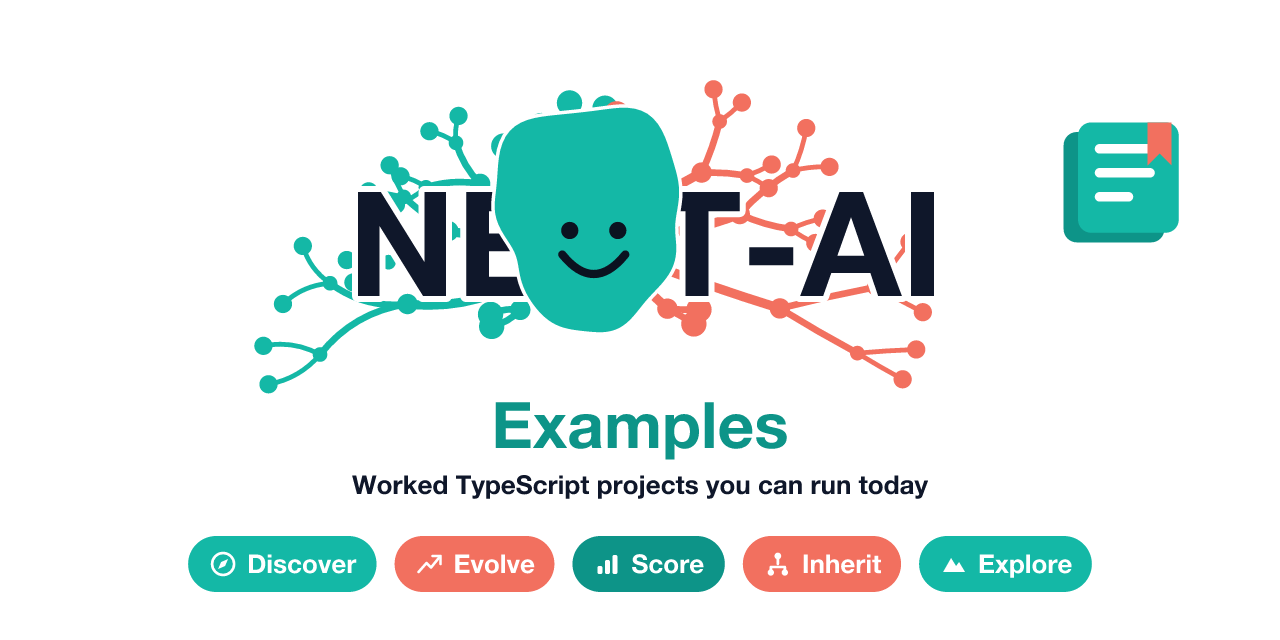
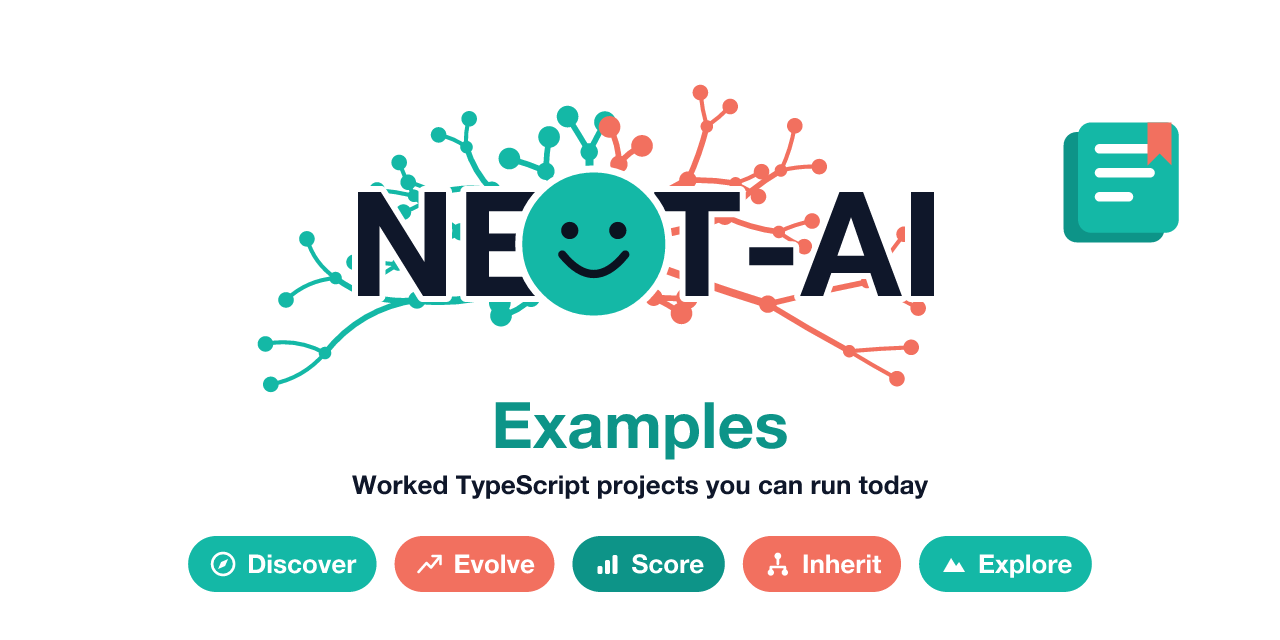
fix: keep a round smiley soma; neuron look is the dendrites.
The lumpy cell body read as a mutant, not a neuron. Restore the friendly
round face and grow dendrite trunks out of it.

diff --git a/scripts/brand/preview_art.ts b/scripts/brand/preview_art.ts
@@ -1,12 +1,12 @@
 /**
  * Issue #3764 / #3781 — the NEAT-AI family social previews, drawn as SVG.
  *
- * The family look lives here once: the organic smiley-neuron soma standing in
- * for the "A" of NEAT-AI (irregular cell body, tapering dendrite trunks, face),
- * the teal/coral dendrite tree behind it, the sub-project subtitle, and the
- * shared capability pills. Every sibling preview is the same lockup with its
- * own subtitle, descriptor, and motif, so the ten images stay recognisably one
- * family instead of ten hand-tweaked drawings.
+ * The family look lives here once: a friendly round smiley-neuron standing in
+ * for the "A" of NEAT-AI, dendrite trunks growing out of that cell body, the
+ * teal/coral dendrite tree, the sub-project subtitle, and the shared capability
+ * pills. Every sibling preview is the same lockup with its own subtitle,
+ * descriptor, and motif, so the ten images stay recognisably one family instead
+ * of ten hand-tweaked drawings.
  *
  * Two palettes render the same artwork:
  *
@@ -199,30 +199,6 @@ const PRIMARIES: Primary[] = [
 ];
 
 /**
- * Issue #3781 — lobes on the cell body where dendrite trunks leave the soma.
- * Encoded as polar bumps so the silhouette is one organic shape, not a disc
- * with separate finger-like appendages.
- *
- * Angles are SVG degrees (0 = right, 90 = down). `length` is extra radius as a
- * fraction of the soma radius; `spread` is the angular width in radians.
- */
-interface SomaLobe {
-  angle: number;
-  length: number;
-  spread: number;
-}
-
-const SOMA_LOBES: SomaLobe[] = [
-  { angle: -98, length: 0.58, spread: 0.30 },
-  { angle: -66, length: 0.74, spread: 0.26 },
-  { angle: -128, length: 0.70, spread: 0.26 },
-  { angle: -36, length: 0.40, spread: 0.24 },
-  { angle: -162, length: 0.38, spread: 0.24 },
-  { angle: 78, length: 0.20, spread: 0.28 },
-  { angle: 112, length: 0.22, spread: 0.28 },
-];
-
-/**
  * Cap how steeply a branch may point downward. Below the wordmark sits the
  * subtitle, so the tree fans sideways there instead of diving into the text.
  */
@@ -353,15 +329,15 @@ function dendrites(
   for (const primary of PRIMARIES) {
     const angle = primary.angle + (random() - 0.5) * 12;
     const radians = (angle * Math.PI) / 180;
-    // Issue #3781: start near the soma surface so branches leave the cell
-    // body rather than radiating from behind a plain circle.
-    const startR = radius * 1.02;
+    // Issue #3781: start under the round soma so the first segment reads as a
+    // dendrite trunk leaving the cell, not a tree floating behind it.
+    const startR = radius * 0.55;
     grow(
       cx + Math.cos(radians) * startR,
       cy + Math.sin(radians) * startR,
       angle,
       primary.length * (0.9 + random() * 0.2),
-      16,
+      13,
       primary.depth,
       (random() - 0.5) * 0.5,
       primary.coral ? palette.coral : palette.teal,
@@ -410,78 +386,17 @@ function dendrites(
 }
 
 /**
- * Polar radius of the lumpy cell body (Issue #3781). Harmonics keep the
- * silhouette organic without a random roll, so every preview matches.
- */
-function somaRadiusAt(theta: number, r: number): number {
-  let rr = r * (
-    1 +
-    0.06 * Math.sin(3 * theta + 0.55) +
-    0.035 * Math.sin(5 * theta + 1.35) +
-    0.025 * Math.cos(2 * theta - 0.65)
-  );
-  for (const lobe of SOMA_LOBES) {
-    const lobeTheta = (lobe.angle * Math.PI) / 180;
-    let delta = theta - lobeTheta;
-    while (delta > Math.PI) delta -= Math.PI * 2;
-    while (delta < -Math.PI) delta += Math.PI * 2;
-    const bump = Math.exp(
-      -(delta * delta) / (2 * lobe.spread * lobe.spread),
-    );
-    rr += r * lobe.length * bump;
-  }
-  return rr;
-}
-
-/** Closed quadratic curve through `points`, smooth at the wrap-around. */
-function closedCurvePath(
-  points: Array<{ x: number; y: number }>,
-): string {
-  const mid = (
-    a: { x: number; y: number },
-    b: { x: number; y: number },
-  ) => ({ x: (a.x + b.x) / 2, y: (a.y + b.y) / 2 });
-  const start = mid(points[points.length - 1], points[0]);
-  let d = `M${n(start.x)} ${n(start.y)}`;
-  for (let i = 0; i < points.length; i++) {
-    const curr = points[i];
-    const next = points[(i + 1) % points.length];
-    const m = mid(curr, next);
-    d += `Q${n(curr.x)} ${n(curr.y)} ${n(m.x)} ${n(m.y)}`;
-  }
-  return `${d}Z`;
-}
-
-/** Irregular cell-body outline — a perturbed circle, not a disc. */
-function organicBlobPath(cx: number, cy: number, r: number): string {
-  const steps = 64;
-  const points: Array<{ x: number; y: number }> = [];
-  for (let i = 0; i < steps; i++) {
-    const theta = (i / steps) * Math.PI * 2;
-    const rr = somaRadiusAt(theta, r);
-    points.push({
-      x: cx + Math.cos(theta) * rr,
-      y: cy + Math.sin(theta) * rr,
-    });
-  }
-  return closedCurvePath(points);
-}
-
-/**
- * The organic smiley soma that stands in for the "A" of NEAT-AI (Issue #3781).
+ * The smiley soma that stands in for the "A" of NEAT-AI (Issue #3781).
  *
- * Close match to the pre-#3764 artwork: irregular teal cell body with dendrite
- * trunks growing out of it, plus a smiley face. Not a plain filled circle.
+ * A round, friendly cell body — the neuron look comes from dendrite trunks
+ * leaving this disc, not from an irregular lumpy silhouette.
  */
 function soma(cx: number, cy: number, r: number, palette: Palette): string {
-  const blob = organicBlobPath(cx, cy, r);
-  const halo =
-    `<path d="${blob}" fill="${palette.halo}" stroke="${palette.halo}" ` +
-    `stroke-width="7" stroke-linejoin="round"/>`;
-  const fill = `<path d="${blob}" fill="${palette.teal}"/>`;
   const eyeR = r * 0.115;
   const eyeY = cy - r * 0.18;
-  const face = [
+  return [
+    `<circle cx="${n(cx)}" cy="${n(cy)}" r="${n(r)}" fill="${palette.teal}" `,
+    `stroke="${palette.halo}" stroke-width="7"/>`,
     `<circle cx="${n(cx - r * 0.32)}" cy="${n(eyeY)}" r="${
       n(eyeR)
     }" fill="${SOMA_DETAIL}"/>`,
@@ -495,7 +410,6 @@ function soma(cx: number, cy: number, r: number, palette: Palette): string {
       n(r * 0.11)
     }" stroke-linecap="round"/>`,
   ].join("");
-  return `${halo}${fill}${face}`;
 }
 
 interface PillSpec {

diff --git a/test/docs/BrandPreviewSvg.ts b/test/docs/BrandPreviewSvg.ts
@@ -69,16 +69,14 @@ Deno.test("each preview carries its own subtitle and descriptor", () => {
   }
 });
 
-Deno.test("the soma is an organic path, not a plain circle", () => {
+Deno.test("the soma is a friendly round neuron with a smiley face", () => {
   const svg = buildPreviewSvg(HUB, paletteFor("transparent"), stubMeasure);
   const teal = paletteFor("transparent").teal;
   assert(
-    !new RegExp(`<circle[^>]*fill="${teal}"[^>]*stroke=`).test(svg),
-    "Issue #3781: the A must not be a plain filled circle",
-  );
-  assert(
-    new RegExp(`<path d="M[^"]{80,}" fill="${teal}"`).test(svg),
-    "Issue #3781: the soma cell body must be an organic filled path",
+    new RegExp(`<circle cx="[^"]+" cy="[^"]+" r="[^"]+" fill="${teal}"`).test(
+      svg,
+    ),
+    "Issue #3781: the A is a round cell body, not a lumpy silhouette",
   );
   // Smiley face: two filled eyes plus a stroke smile.
   assert(
@@ -86,6 +84,7 @@ Deno.test("the soma is an organic path, not a plain circle", () => {
     "Issue #3781: soma must keep the smiley-face eyes",
   );
   assertStringIncludes(svg, `stroke="#0B1220"`);
+  assertStringIncludes(svg, '<path d="M');
 });
 
 Deno.test("the same spec renders identically every time", () => {
